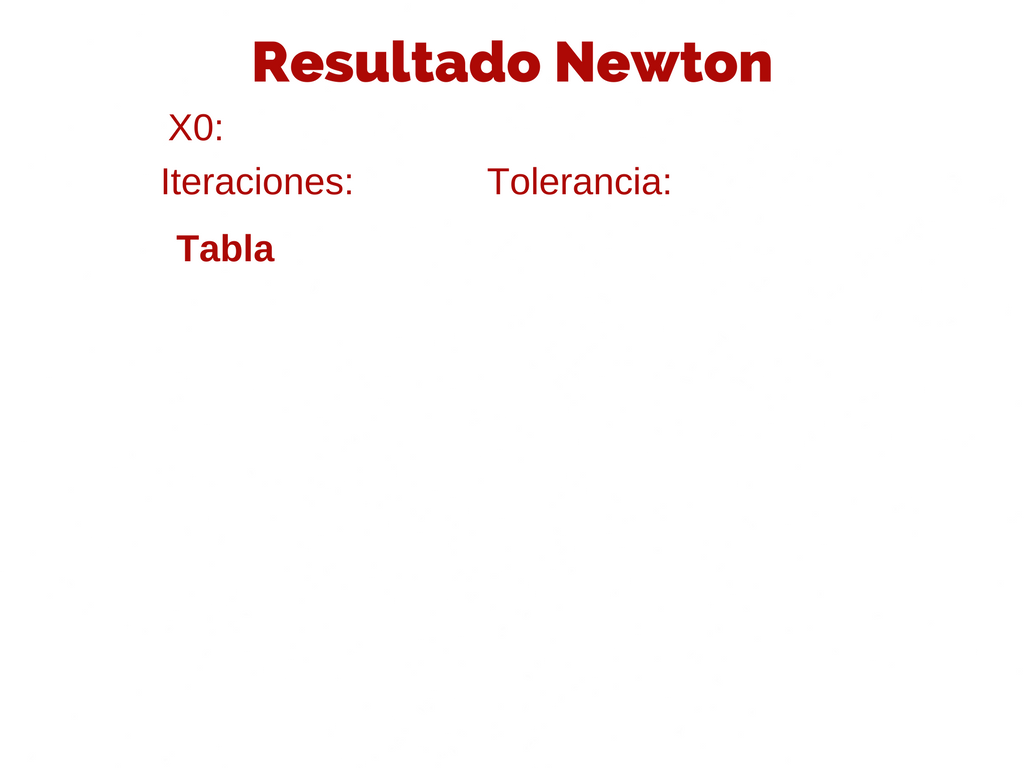
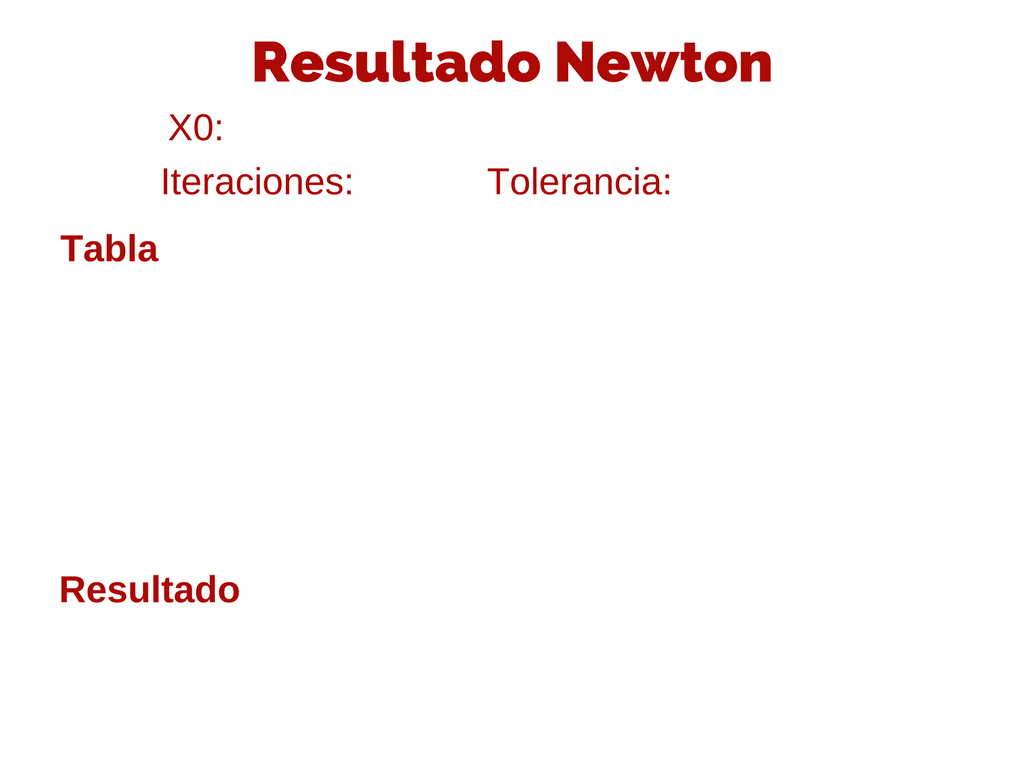
Correción imágenes resultados métodos

Changed region(s): [[0.0625, 0.2812, 0.2812, 0.3438], [0.0625, 0.75, 0.25, 0.7812]]

diff --git a/PracticaAnalisis/src/interfaz/ResultadosBiseccion.java b/PracticaAnalisis/src/interfaz/ResultadosBiseccion.java
@@ -44,6 +44,8 @@ public class ResultadosBiseccion extends javax.swing.JFrame {
     // <editor-fold defaultstate="collapsed" desc="Generated Code">//GEN-BEGIN:initComponents
     private void initComponents() {
 
+        jScrollPane2 = new javax.swing.JScrollPane();
+        jTextArea1 = new javax.swing.JTextArea();
         valorInicialIntervaloABiseccion = new javax.swing.JTextField();
         valorInicialIntervaloBBiseccion = new javax.swing.JTextField();
         iteracionesBiseccion = new javax.swing.JTextField();
@@ -51,8 +53,13 @@ public class ResultadosBiseccion extends javax.swing.JFrame {
         botonRegresarResultadosBiseccion = new javax.swing.JButton();
         jScrollPane1 = new javax.swing.JScrollPane();
         tableBiseccion = new javax.swing.JTable();
-        textResultado = new javax.swing.JLabel();
+        jScrollPane3 = new javax.swing.JScrollPane();
+        textResultado = new javax.swing.JTextArea();
         jLabel1 = new javax.swing.JLabel();
+
+        jTextArea1.setColumns(20);
+        jTextArea1.setRows(5);
+        jScrollPane2.setViewportView(jTextArea1);
 
         setDefaultCloseOperation(javax.swing.WindowConstants.EXIT_ON_CLOSE);
         getContentPane().setLayout(null);
@@ -102,12 +109,15 @@ public class ResultadosBiseccion extends javax.swing.JFrame {
         jScrollPane1.setViewportView(tableBiseccion);
 
         getContentPane().add(jScrollPane1);
-        jScrollPane1.setBounds(80, 280, 840, 180);
+        jScrollPane1.setBounds(50, 240, 930, 300);
 
+        textResultado.setColumns(20);
         textResultado.setFont(new java.awt.Font("Tahoma", 0, 24)); // NOI18N
-        textResultado.setText("jLabel2");
-        getContentPane().add(textResultado);
-        textResultado.setBounds(90, 580, 820, 70);
+        textResultado.setRows(5);
+        jScrollPane3.setViewportView(textResultado);
+
+        getContentPane().add(jScrollPane3);
+        jScrollPane3.setBounds(50, 580, 930, 120);
 
         jLabel1.setIcon(new javax.swing.ImageIcon(getClass().getResource("/imagenes/Resultado Biseccion.png"))); // NOI18N
         getContentPane().add(jLabel1);
@@ -140,8 +150,11 @@ public class ResultadosBiseccion extends javax.swing.JFrame {
     private javax.swing.JTextField iteracionesBiseccion;
     private javax.swing.JLabel jLabel1;
     private javax.swing.JScrollPane jScrollPane1;
+    private javax.swing.JScrollPane jScrollPane2;
+    private javax.swing.JScrollPane jScrollPane3;
+    private javax.swing.JTextArea jTextArea1;
     private javax.swing.JTable tableBiseccion;
-    private javax.swing.JLabel textResultado;
+    private javax.swing.JTextArea textResultado;
     private javax.swing.JTextField toleranciaBiseccion;
     private javax.swing.JTextField valorInicialIntervaloABiseccion;
     private javax.swing.JTextField valorInicialIntervaloBBiseccion;

diff --git a/PracticaAnalisis/src/interfaz/ResultadosNewton.java b/PracticaAnalisis/src/interfaz/ResultadosNewton.java
@@ -99,7 +99,7 @@ public class ResultadosNewton extends javax.swing.JFrame {
         jScrollPane1.setBounds(160, 270, 790, 310);
 
         textResultado.setColumns(20);
-        textResultado.setFont(new java.awt.Font("Tahoma", 0, 18)); // NOI18N
+        textResultado.setFont(new java.awt.Font("Tahoma", 0, 24)); // NOI18N
         textResultado.setRows(5);
         jScrollPane2.setViewportView(textResultado);
 
